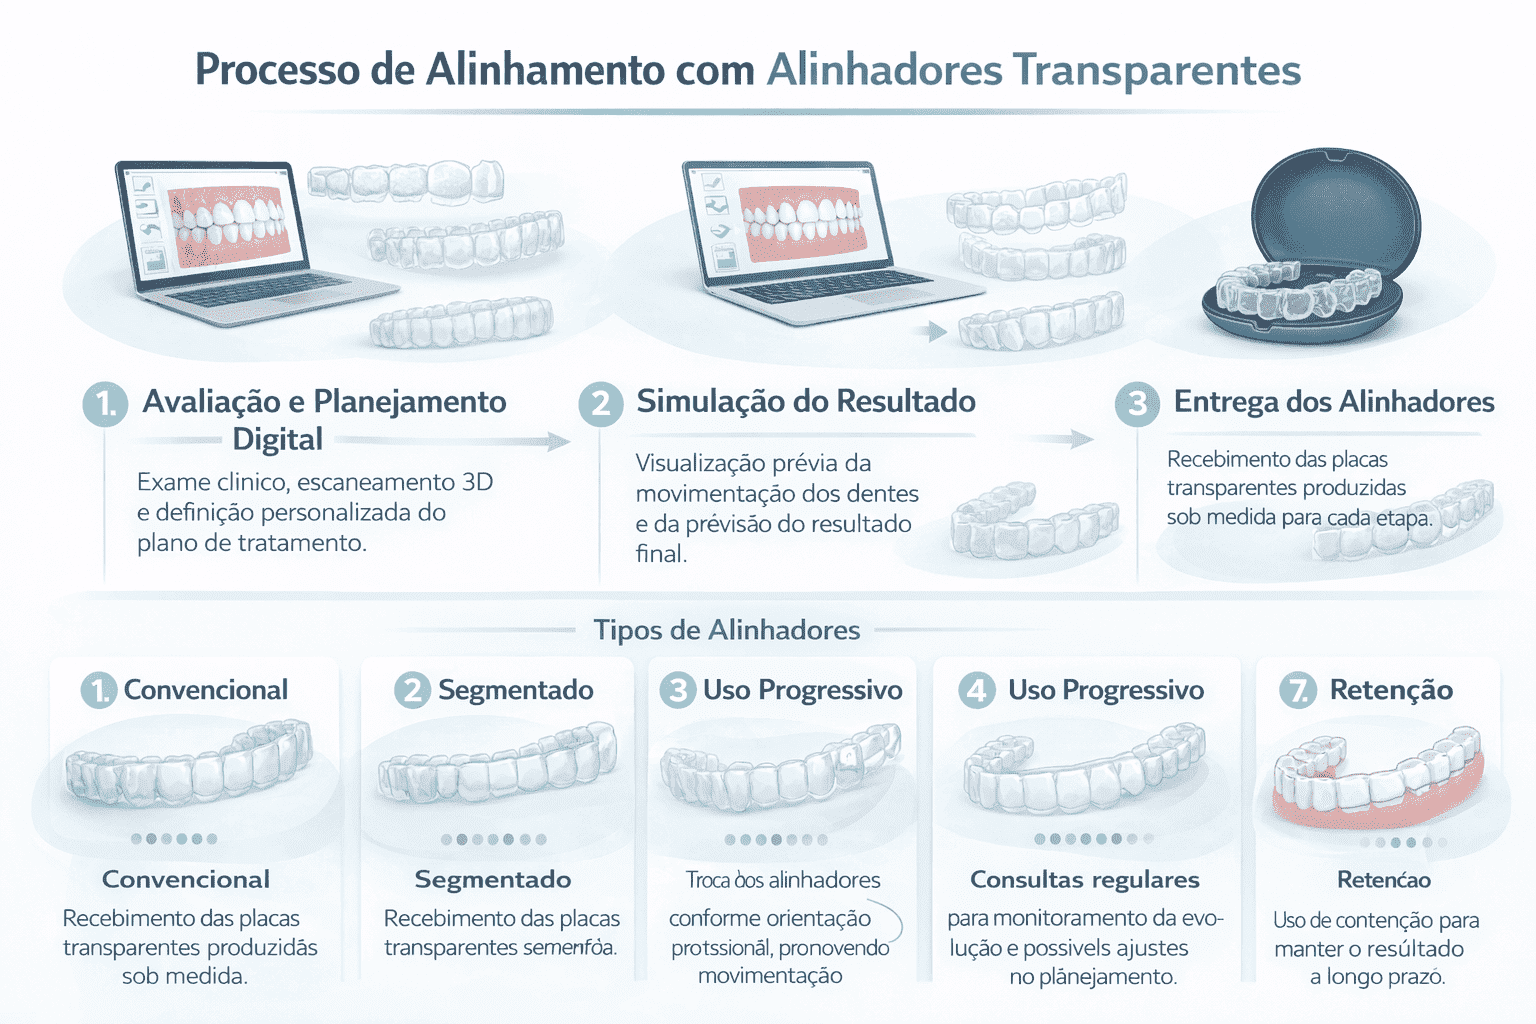
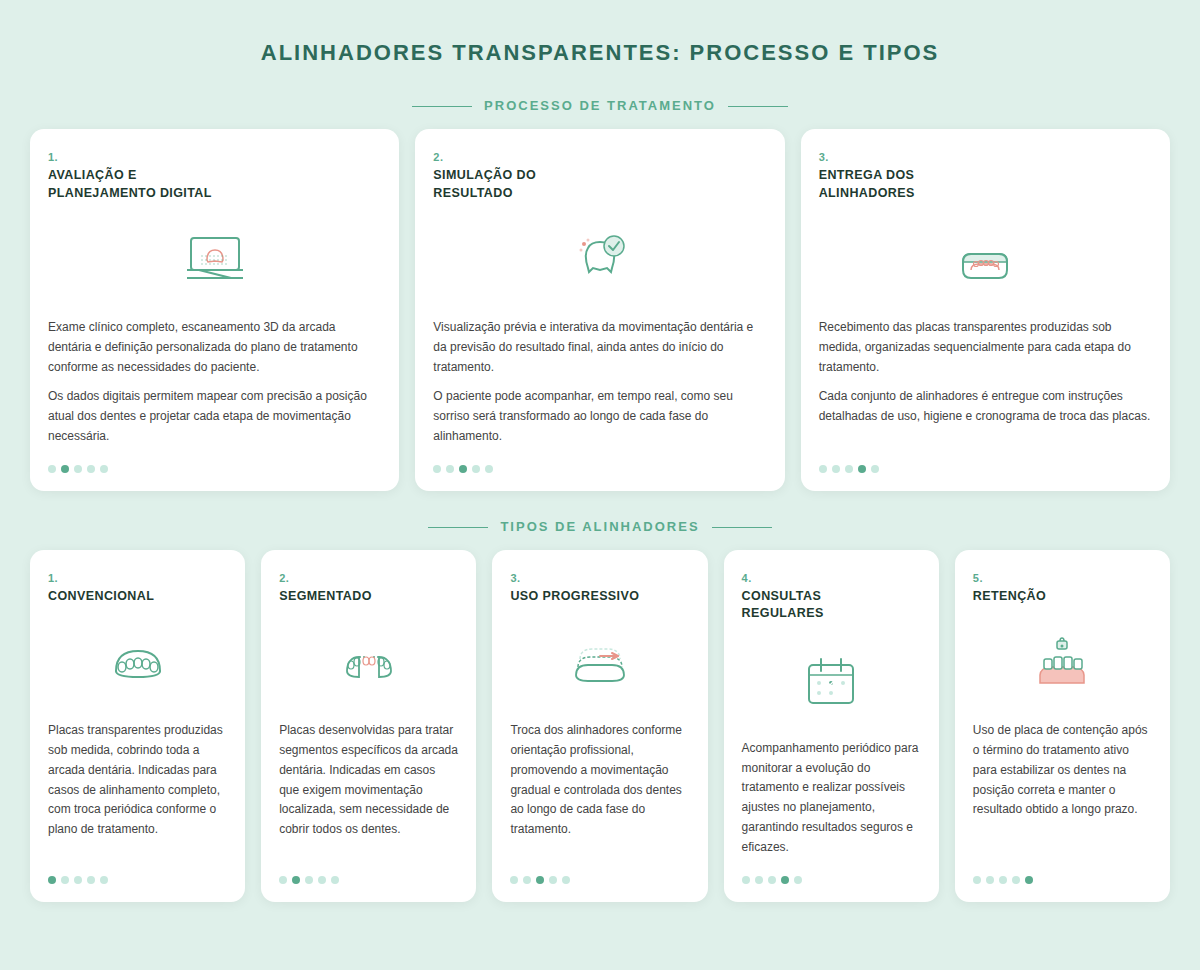
Add files via upload
update

diff --git a/index.html b/index.html
@@ -419,7 +419,7 @@
             <a href="#home" class="flex items-center" aria-label="Odontologia Ideale - Home">
                 <img src="logo-ideale.png" alt="Odontologia Ideale" class="h-16 md:h-20 w-auto" width="200" height="107" loading="eager" fetchpriority="high">
             </a>
-            
+
             <!-- Links do desktop (escondidos no mobile) -->
             <div class="hidden md:flex space-x-8 items-center font-medium text-sm text-gray-600">
                 <a href="#home" class="hover:text-brand-600 transition">HOME</a>
@@ -591,7 +591,7 @@
                                     <p>• Alinhadores transparentes (imperceptíveis).</p>
                                     <p class="italic text-xs mt-2">Indicado para crianças, adolescentes e adultos.</p>
                                 </div>
-                                <button onclick="openInfographic(['alinhador-4.png' , 'alinhador-3.png'], 'Alinhadores' )" class="mt-4 w-full flex items-center justify-center gap-2 bg-brand-50 hover:bg-brand-100 text-brand-700 font-bold text-xs uppercase tracking-widest py-3 px-4 rounded-xl border border-brand-200 transition-all duration-200 hover:shadow-sm">
+                                <button onclick="openInfographic(['alinhador-3.png' , 'alinhador-4.png'], 'Alinhadores' )" class="mt-4 w-full flex items-center justify-center gap-2 bg-brand-50 hover:bg-brand-100 text-brand-700 font-bold text-xs uppercase tracking-widest py-3 px-4 rounded-xl border border-brand-200 transition-all duration-200 hover:shadow-sm">
                                     <i class="fas fa-images"></i> Ver Infográfico Completo
                                 </button>
                             </div>